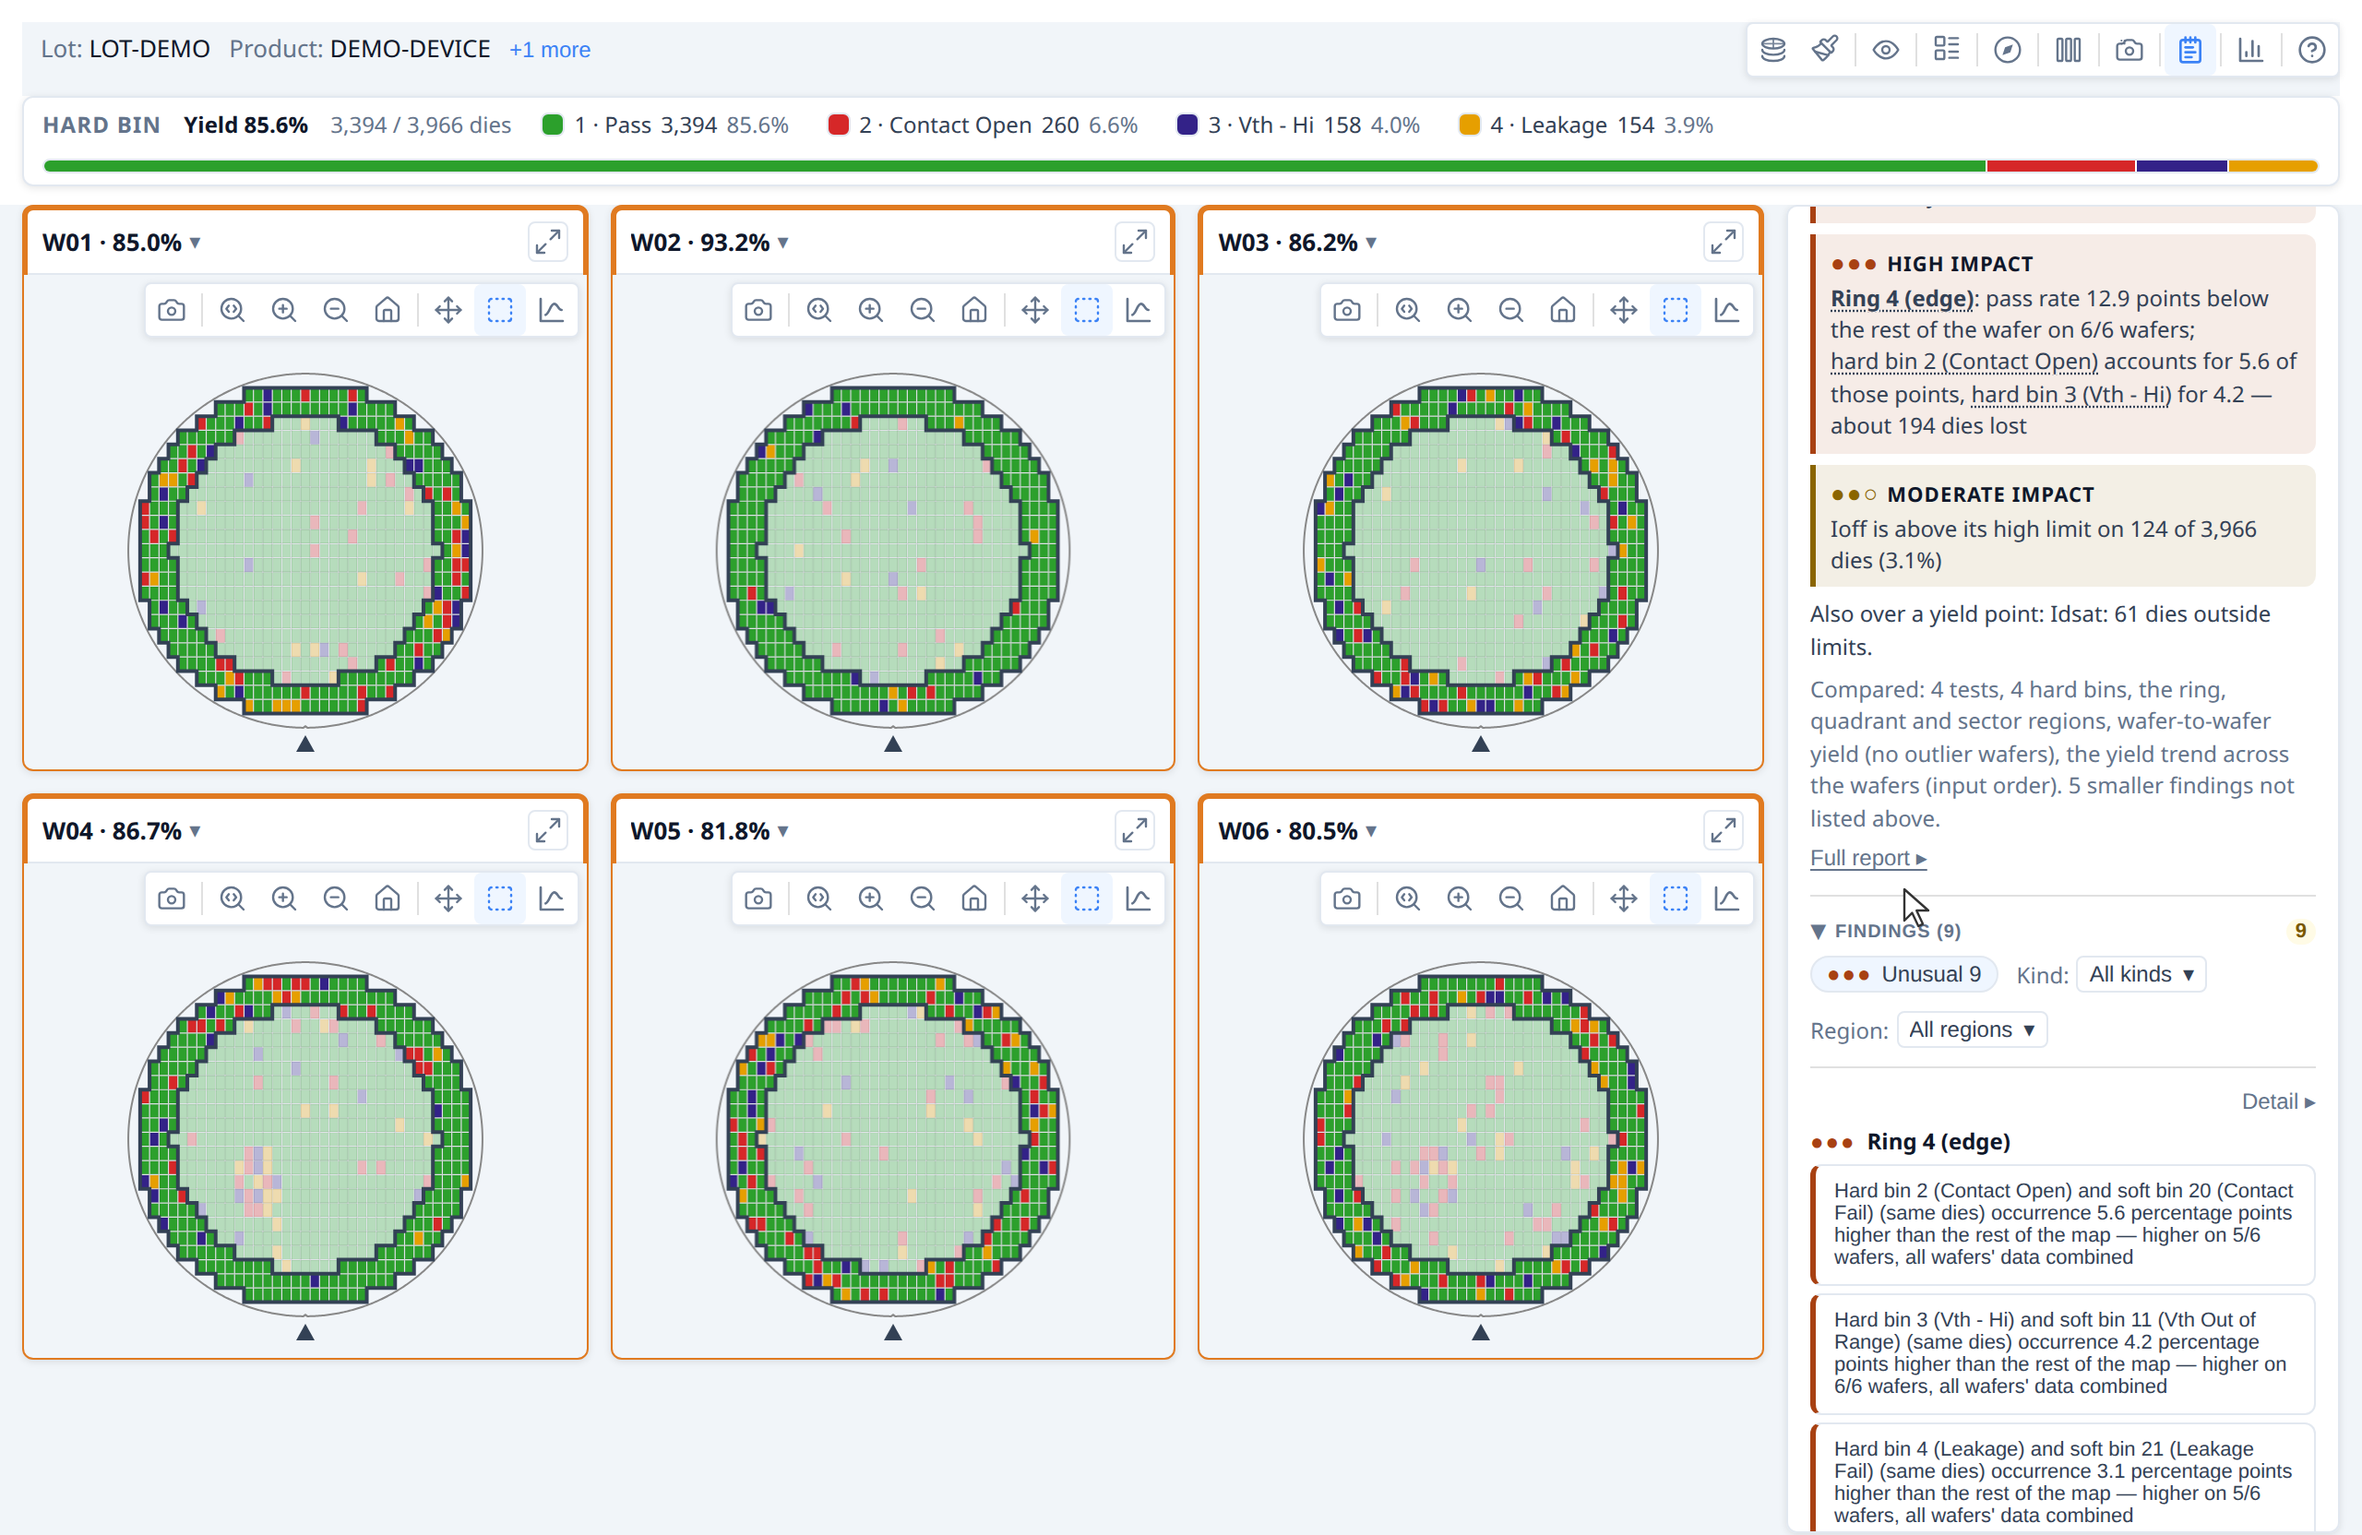
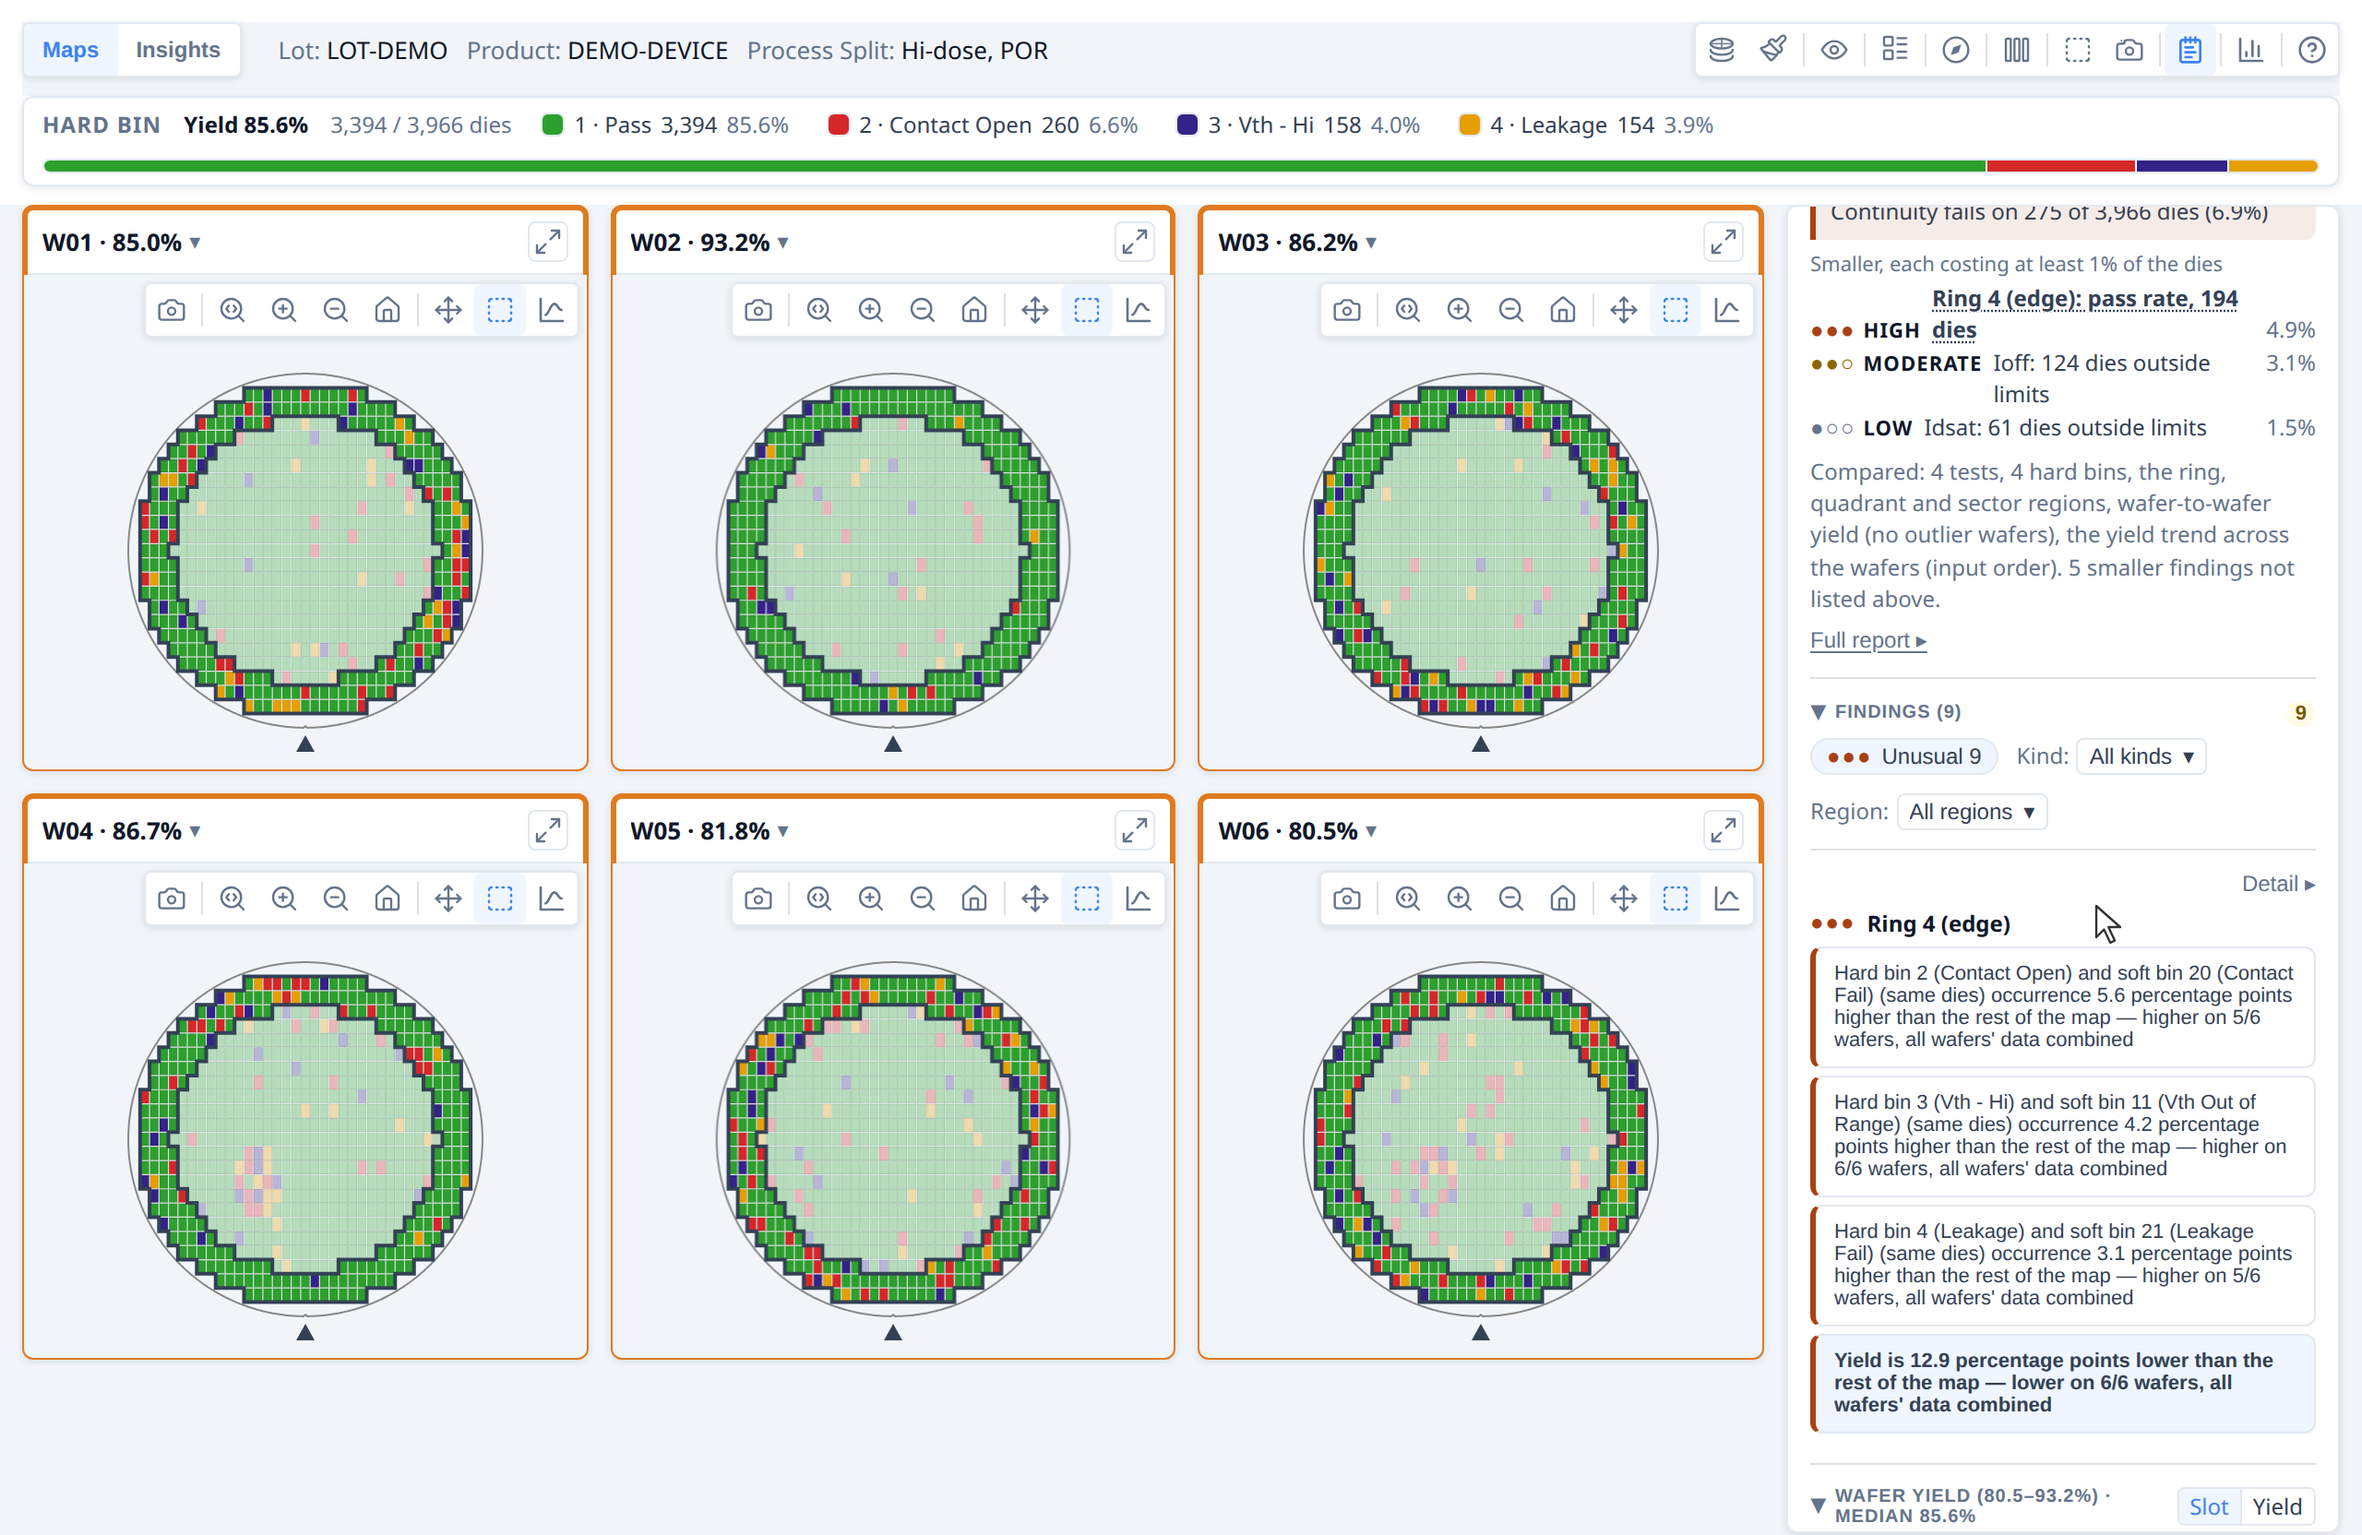
Document the Insights, save and right-click changes and refresh screenshots

diff --git a/docs/upgrading.md b/docs/upgrading.md
@@ -6,6 +6,48 @@ release first. Each release's full list of changes is in the
 each removal, and whether it could come back, are in
 [API_REMOVALS.md](https://github.com/wafertools/wafermap/blob/main/API_REMOVALS.md).
 
+## Next release
+
+### Insights is on by default
+
+`insights.enabled` now defaults to `true` wherever there is a toolbar: always for
+`renderWaferGallery`, and for `renderWaferMap` unless `showToolbar` is `false`. A chromeless map
+stays a plain map. If your app does not want the Insights button, or the Map | Insights switch, pass `insights: { enabled: false }`. Gallery cards are never
+Insights hosts, and the chart code is still downloaded only when Insights is first opened.
+
+### `onSaveText` can receive a `Blob`
+
+`SaveTextHandler`'s first argument is now `string | Blob`. A table of a million cells or more (a
+lot's die list at 400k dies × 50 tests is 20 million) is written in slices and handed over as a
+`Blob`, so no single string holds the whole file. Smaller tables are still a string, saved before
+the call returns. Handle both:
+
+```ts
+onSaveText: async (content, filename) => {
+  if (typeof content === 'string') return saveString(content, filename);
+  await pipeToFile(content.stream(), filename); // or: saveString(await content.text(), filename)
+}
+```
+
+A handler that only expects a string (calling `.length` or `.replace` on it) fails on a large
+export.
+
+### Right-click on a map always opens the drilldown menu
+
+Right-click on a map, a gallery card or a chart mark used to open the drilldown menu only where
+there was something to chart, and was otherwise left to the browser or your app. The menu now
+always has **Dies**, so your own context menu on those surfaces no longer appears. The toolbar's
+Chart button is always shown and is labelled "Charts and tables for …". To keep a context menu of
+your own, attach it to an element outside the map.
+
+### The Overview no longer carries the test-values and functional-tests tables
+
+They moved, unchanged, to the Data tab's Statistics view, and the Overview ends with a link to
+it. Code that clicks the "Test values CSV" or "Functional CSV" button on the Overview should open
+the Data tab first (`data-wmap-insights-tab="data"`). The Summary panel's own tables are
+unchanged, but its CSV buttons are gone: the **Data tables** button opens the same tables with
+Export CSV and Copy.
+
 ## 0.32.0
 
 ### Test values on built dies are read-only

diff --git a/docs/user-guide.md b/docs/user-guide.md
@@ -803,6 +803,10 @@ onto that pair.*
 
 ### Data tables
 
+![Gallery Insights — Data sub-tab](images/guide-insights-data.png)
+
+*Data sub-tab, Statistics view: the Test Values and Functional Tests tables for the lot, each with its own CSV button; **Dies** and **Wafers** are one click away.*
+
 The **Data** sub-tab shows the wafers Insights is scoped to as tables, one at a
 time, chosen with the **Statistics | Dies | Wafers** control. It follows the
 same "Group by" and "Show" scope as the charts.
